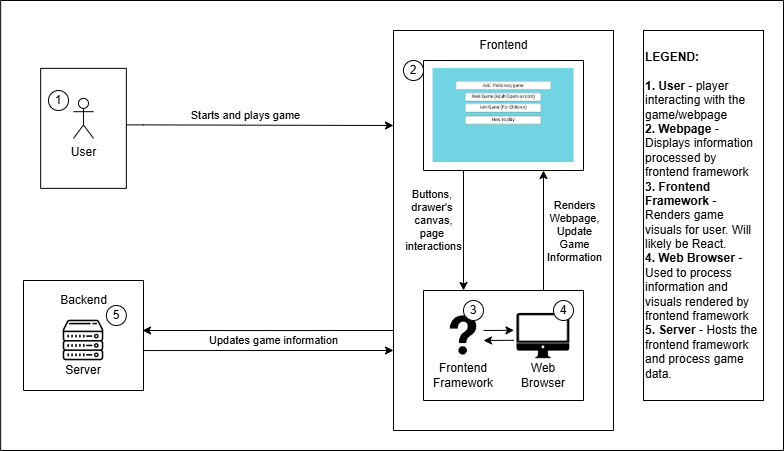
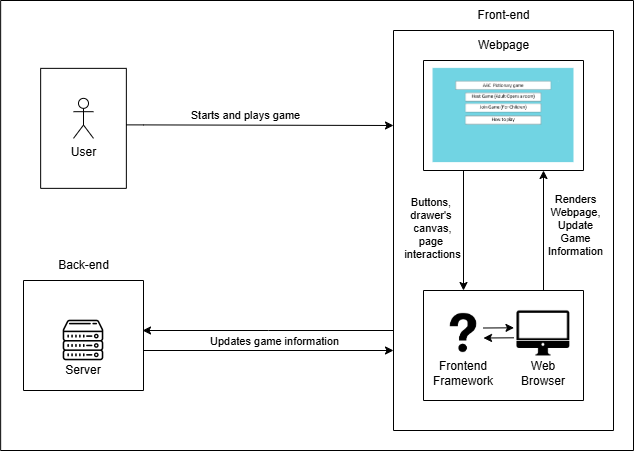
Updated System Block Diagram
Updated description and picture. Possibly will need to verify picture link.

diff --git a/documentation/docs/requirements/system-block-diagram.md b/documentation/docs/requirements/system-block-diagram.md
@@ -4,20 +4,10 @@ sidebar_position: 2
 
 # System Block Diagram
 ![System Block Diagram](https://github.com/Capstone-Projects-2025-Spring/project-aac-game-team-a/blob/docasaurus-system-block-diagram/documentation/static/img/system-block-diagram.png?raw=true)
+**Figure 1.** High-level design of Scribblers! web application.
 
 ## Description
-The application will be accessible via any web browser. The front-end framework is yet to
-be finalized by the development team. Key features of the front-end interface include:
-
-* Navigation buttons for seamless user experience.
-* A drawing canvas for designated players.
-* Instructional pages for game guidelines.
-* User authentication and account management pages.
-* A game history page for reviewing past sessions.
-  
-The back-end infrastructure consists of:
-
-* A server responsible for handling user requests, account data, and avatar
-selection.
-* A real-time communication module to manage in-game interactions.
-* A database for storing user information, game history, and related data.
+The system diagram shown in Figure 1 shows the architecture of the Scribblers application at a high-level.
+AAC and Non-AAC Users access the game through the same webpage interface. 
+The webpage is rendered by the React front-end framework, handling user inputs and updating the webpage with game data processed by the back-end. 
+The back-end, hosted on a server running Node.js, processes any data received from the front-end and handles external API calls as needed.
